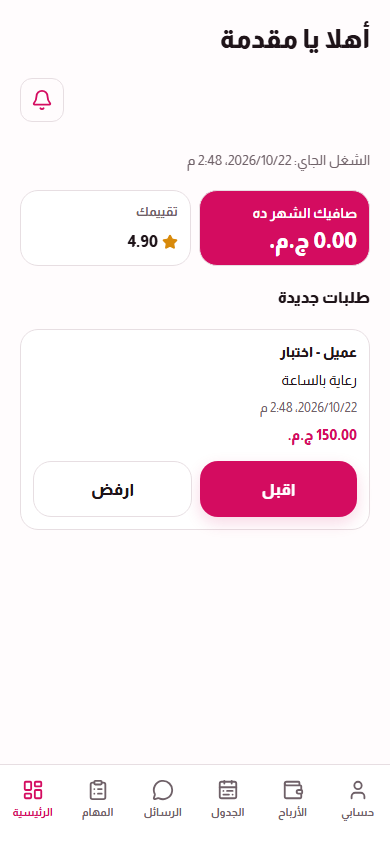
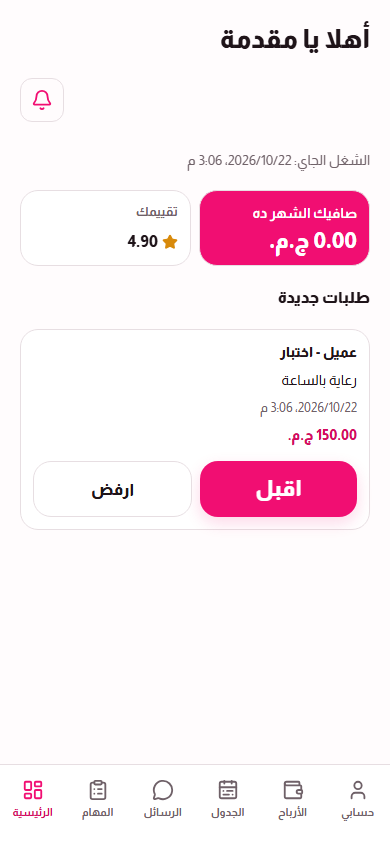
fix(mobile): preserve approved brand pink in a11y pass

diff --git a/mobile/src/app/(provider)/(tabs)/_layout.tsx b/mobile/src/app/(provider)/(tabs)/_layout.tsx
@@ -29,7 +29,7 @@ export default function ProviderTabs() {
       <Tabs
         screenOptions={{
           headerShown: false,
-          tabBarActiveTintColor: colors.brand,
+          tabBarActiveTintColor: colors.brandText,
           tabBarInactiveTintColor: colors.muted,
           tabBarLabelStyle: { fontFamily: labelFont, fontSize: 11, lineHeight: 18 },
           tabBarStyle: {
@@ -45,42 +45,54 @@ export default function ProviderTabs() {
           name="dashboard"
           options={{
             title: t("pro.nav.dashboard"),
-            tabBarIcon: ({ color }) => <LayoutDashboard size={22} color={color} />,
+            tabBarIcon: ({ color, focused }) => (
+              <LayoutDashboard size={22} color={focused ? colors.brand : color} />
+            ),
           }}
         />
         <Tabs.Screen
           name="jobs"
           options={{
             title: t("pro.nav.jobs"),
-            tabBarIcon: ({ color }) => <ClipboardList size={22} color={color} />,
+            tabBarIcon: ({ color, focused }) => (
+              <ClipboardList size={22} color={focused ? colors.brand : color} />
+            ),
           }}
         />
         <Tabs.Screen
           name="pro-messages"
           options={{
             title: t("nav.messages"),
-            tabBarIcon: ({ color }) => <MessageCircle size={22} color={color} />,
+            tabBarIcon: ({ color, focused }) => (
+              <MessageCircle size={22} color={focused ? colors.brand : color} />
+            ),
           }}
         />
         <Tabs.Screen
           name="schedule"
           options={{
             title: t("pro.nav.schedule"),
-            tabBarIcon: ({ color }) => <CalendarRange size={22} color={color} />,
+            tabBarIcon: ({ color, focused }) => (
+              <CalendarRange size={22} color={focused ? colors.brand : color} />
+            ),
           }}
         />
         <Tabs.Screen
           name="earnings"
           options={{
             title: t("pro.nav.earnings"),
-            tabBarIcon: ({ color }) => <Wallet size={22} color={color} />,
+            tabBarIcon: ({ color, focused }) => (
+              <Wallet size={22} color={focused ? colors.brand : color} />
+            ),
           }}
         />
         <Tabs.Screen
           name="pro-profile"
           options={{
             title: t("pro.nav.profile"),
-            tabBarIcon: ({ color }) => <User size={22} color={color} />,
+            tabBarIcon: ({ color, focused }) => (
+              <User size={22} color={focused ? colors.brand : color} />
+            ),
           }}
         />
       </Tabs>

diff --git a/mobile/src/app/(customer)/(tabs)/_layout.tsx b/mobile/src/app/(customer)/(tabs)/_layout.tsx
@@ -20,7 +20,7 @@ export default function CustomerTabs() {
     <Tabs
       screenOptions={{
         headerShown: false,
-        tabBarActiveTintColor: colors.brand,
+        tabBarActiveTintColor: colors.brandText,
         tabBarInactiveTintColor: colors.muted,
         tabBarLabelStyle: { fontFamily: labelFont, fontSize: 12, lineHeight: 22 },
         tabBarStyle: {
@@ -36,28 +36,36 @@ export default function CustomerTabs() {
         name="home"
         options={{
           title: t("nav.home"),
-          tabBarIcon: ({ color }) => <Home size={22} color={color} />,
+          tabBarIcon: ({ color, focused }) => (
+            <Home size={22} color={focused ? colors.brand : color} />
+          ),
         }}
       />
       <Tabs.Screen
         name="bookings"
         options={{
           title: t("nav.bookings"),
-          tabBarIcon: ({ color }) => <Calendar size={22} color={color} />,
+          tabBarIcon: ({ color, focused }) => (
+            <Calendar size={22} color={focused ? colors.brand : color} />
+          ),
         }}
       />
       <Tabs.Screen
         name="messages"
         options={{
           title: t("nav.messages"),
-          tabBarIcon: ({ color }) => <MessageCircle size={22} color={color} />,
+          tabBarIcon: ({ color, focused }) => (
+            <MessageCircle size={22} color={focused ? colors.brand : color} />
+          ),
         }}
       />
       <Tabs.Screen
         name="profile"
         options={{
           title: t("nav.profile"),
-          tabBarIcon: ({ color }) => <User size={22} color={color} />,
+          tabBarIcon: ({ color, focused }) => (
+            <User size={22} color={focused ? colors.brand : color} />
+          ),
         }}
       />
     </Tabs>

diff --git a/mobile/src/app/(provider)/_layout.tsx b/mobile/src/app/(provider)/_layout.tsx
@@ -19,7 +19,10 @@ export default function ProviderStack() {
       screenOptions={{
         headerTintColor: colors.brand,
         headerStyle: { backgroundColor: colors.background },
-        headerTitleStyle: { fontFamily: (i18n.language === "ar" ? fonts.ar : fonts.en).bold },
+        headerTitleStyle: {
+          fontFamily: (i18n.language === "ar" ? fonts.ar : fonts.en).bold,
+          color: colors.brandText,
+        },
         headerBackTitle: t("common.back"),
         contentStyle: { backgroundColor: colors.background },
       }}

diff --git a/mobile/src/ui/theme.ts b/mobile/src/ui/theme.ts
@@ -3,8 +3,9 @@
  * like one product. Keep names aligned with the web Tailwind tokens.
  */
 export const colors = {
+  brand: "#F10E72",
   // 4.53:1 against brandTint and 5.22:1 against white for normal-size text.
-  brand: "#D40C60",
+  brandText: "#D40C60",
   brandForeground: "#FFFFFF",
   brandTint: "#FDEAF2",
   brandTintStrong: "#FBD3E5",

diff --git a/mobile/src/app/(customer)/_layout.tsx b/mobile/src/app/(customer)/_layout.tsx
@@ -23,6 +23,7 @@ export default function CustomerStack() {
         headerTitleStyle: {
           fontFamily: (i18n.language === "ar" ? fonts.ar : fonts.en).heavy,
           fontSize: 20,
+          color: colors.brandText,
         },
         headerBackTitle: t("common.back"),
         contentStyle: { backgroundColor: colors.background },

diff --git a/mobile/src/ui/Text.tsx b/mobile/src/ui/Text.tsx
@@ -8,7 +8,7 @@ type Tone = "default" | "muted" | "brand" | "inverse" | "danger" | "success";
 const toneColor: Record<Tone, string> = {
   default: colors.foreground,
   muted: colors.muted,
-  brand: colors.brand,
+  brand: colors.brandText,
   inverse: colors.brandForeground,
   danger: colors.destructive,
   success: colors.success,

diff --git a/mobile/src/ui/Button.tsx b/mobile/src/ui/Button.tsx
@@ -46,7 +46,7 @@ export function Button({
         <View style={styles.row}>
           {icon}
           <Text
-            size="lg"
+            size={variant === "primary" ? "xxl" : "lg"}
             weight="heavy"
             tone={variant === "primary" ? "inverse" : variant === "ghost" ? "brand" : "default"}
           >

diff --git a/mobile/qa/a11y-rtl-evidence/README.md b/mobile/qa/a11y-rtl-evidence/README.md
@@ -1,12 +1,14 @@
 # Arabic accessibility and RTL screenshots
 
-Captured by the local `*-web.cjs` QA harnesses at 390 × 844, with Arabic selected and deterministic preview fixtures. The before images were captured from `c9fc4e2`; the after images were captured from this branch after syncing with `a9b9aba` on `main`.
+Captured by the local `*-web.cjs` QA harnesses at 390 × 844, with Arabic selected and deterministic preview fixtures. The before images were captured from `c9fc4e2`. The after images were refreshed from the final PR branch with the Product Owner's approved `#F10E72` brand fill and the separate `#D40C60` text token.
 
-| Screen | Before | After |
-| --- | --- | --- |
-| Customer home | [before](before/home.png) | [after](after/home.png) |
-| Customer bookings | [before](before/bookings.png) | [after](after/bookings.png) |
-| Booking review/payment | [before](before/booking-review.png) | [after](after/booking-review.png) |
-| Provider dashboard | [before](before/provider-dashboard.png) | [after](after/provider-dashboard.png) |
+| Screen                 | Before                                  | After                                 |
+| ---------------------- | --------------------------------------- | ------------------------------------- |
+| Customer home          | [before](before/home.png)               | [after](after/home.png)               |
+| Customer bookings      | [before](before/bookings.png)           | [after](after/bookings.png)           |
+| Booking review/payment | [before](before/booking-review.png)     | [after](after/booking-review.png)     |
+| Provider dashboard     | [before](before/provider-dashboard.png) | [after](after/provider-dashboard.png) |
 
-The changes focus on screen-reader semantics, touch area, tab-label room at large font scales, directional layout, and contrast. Some improvements (labels and hit areas) are not visible in screenshots. `qa/a11y-rtl.cjs` checks the in-scope controls and 1–3× tab-height calculations.
+The changes focus on screen-reader semantics, touch area, tab-label room at large font scales, directional layout, and contrast. Some improvements (labels and hit areas) are not visible in screenshots. `qa/a11y-rtl.cjs` checks the in-scope controls, the approved brand token, text contrast, and 1–3× tab-height calculations.
+
+White text on `#F10E72` has a 4.16:1 contrast ratio. The primary button label is heavy 22px, so it passes the 3:1 large-text threshold. Smaller white labels in the provider dashboard and earnings hero, and the outgoing chat bubble body/time, remain below the 4.5:1 normal-text threshold. On iOS, the small stack back title also inherits the pink icon tint and remains below 4.5:1 on the light header; see the PR description.
